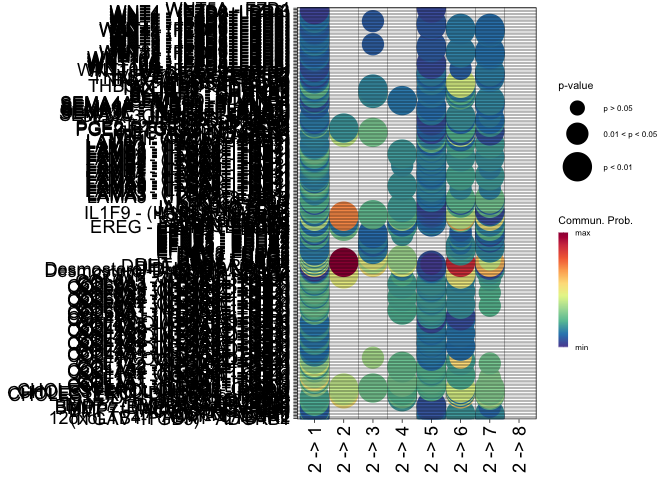
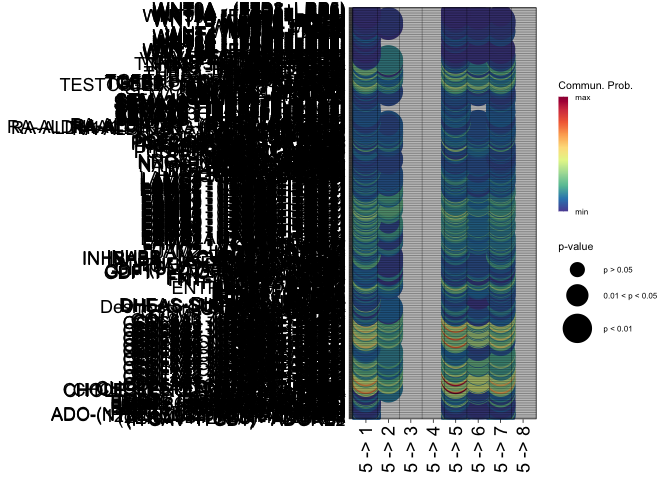
debug

diff --git a/CellChat_Analysis.md b/CellChat_Analysis.md
@@ -71,27 +71,27 @@ ak1 <- RunUMAP(ak1, reduction = "pca", dims = 1:30)
     ## To use Python UMAP via reticulate, set umap.method to 'umap-learn' and metric to 'correlation'
     ## This message will be shown once per session
 
-    ## 09:03:01 UMAP embedding parameters a = 0.9922 b = 1.112
+    ## 16:07:56 UMAP embedding parameters a = 0.9922 b = 1.112
 
-    ## 09:03:01 Read 1419 rows and found 30 numeric columns
+    ## 16:07:56 Read 1419 rows and found 30 numeric columns
 
-    ## 09:03:01 Using Annoy for neighbor search, n_neighbors = 30
+    ## 16:07:56 Using Annoy for neighbor search, n_neighbors = 30
 
-    ## 09:03:01 Building Annoy index with metric = cosine, n_trees = 50
+    ## 16:07:56 Building Annoy index with metric = cosine, n_trees = 50
 
     ## 0%   10   20   30   40   50   60   70   80   90   100%
 
     ## [----|----|----|----|----|----|----|----|----|----|
 
     ## **************************************************|
-    ## 09:03:02 Writing NN index file to temp file /var/folders/nn/sjw17z350nbdmc7_r811zv4m0000gn/T//RtmpkqRb7F/fileed9a1038f0bb
-    ## 09:03:02 Searching Annoy index using 1 thread, search_k = 3000
-    ## 09:03:02 Annoy recall = 100%
-    ## 09:03:02 Commencing smooth kNN distance calibration using 1 thread with target n_neighbors = 30
-    ## 09:03:02 8 smooth knn distance failures
-    ## 09:03:03 Initializing from normalized Laplacian + noise (using RSpectra)
-    ## 09:03:03 Commencing optimization for 500 epochs, with 58354 positive edges
-    ## 09:03:06 Optimization finished
+    ## 16:07:56 Writing NN index file to temp file /var/folders/nn/sjw17z350nbdmc7_r811zv4m0000gn/T//Rtmp1eyeo6/filefc4013eb1d48
+    ## 16:07:56 Searching Annoy index using 1 thread, search_k = 3000
+    ## 16:07:56 Annoy recall = 100%
+    ## 16:07:56 Commencing smooth kNN distance calibration using 1 thread with target n_neighbors = 30
+    ## 16:07:56 8 smooth knn distance failures
+    ## 16:07:57 Initializing from normalized Laplacian + noise (using RSpectra)
+    ## 16:07:57 Commencing optimization for 500 epochs, with 58354 positive edges
+    ## 16:08:00 Optimization finished
 
 ``` r
 color.use <- scPalette(nlevels(ak1)); names(color.use) <- levels(ak1)
@@ -196,7 +196,7 @@ execution.time = Sys.time() - ptm
 print(as.numeric(execution.time, units = "secs"))
 ```
 
-    ## [1] 47.86924
+    ## [1] 47.69012
 
 ## Part II: Inference of cell-cell communication network
 
@@ -209,9 +209,9 @@ cellchat1 <- computeCommunProb(cellchat1, type = "truncatedMean", trim = 0.1,
 ```
 
     ## truncatedMean is used for calculating the average gene expression per cell group. 
-    ## [1] ">>> Run CellChat on spatial transcriptomics data using distances as constraints of the computed communication probability <<< [2025-01-25 09:03:34.600816]"
+    ## [1] ">>> Run CellChat on spatial transcriptomics data using distances as constraints of the computed communication probability <<< [2025-01-25 16:08:28.657664]"
     ## The input L-R pairs have both secreted signaling and contact-dependent signaling. Run CellChat in a contact-dependent manner for `Cell-Cell Contact` signaling, and in a diffusion manner based on the `interaction.range` for other L-R pairs. 
-    ## [1] ">>> CellChat inference is done. Parameter values are stored in `object@options$parameter` <<< [2025-01-25 09:03:50.011665]"
+    ## [1] ">>> CellChat inference is done. Parameter values are stored in `object@options$parameter` <<< [2025-01-25 16:08:48.88682]"
 
 ### Filter out the cell-cell communication if there are only few number of cells in certain cell groups
 
@@ -240,7 +240,7 @@ execution.time = Sys.time() - ptm
 print(as.numeric(execution.time, units = "secs"))
 ```
 
-    ## [1] 18.16438
+    ## [1] 23.02346
 
 ``` r
 ptm = Sys.time()
@@ -271,8 +271,8 @@ netVisual_heatmap(cellchat1, measure = "weight", color.heatmap = "Blues")
 
 ``` r
 # sub-dataset
-df.net_c16 <- subsetCommunication(cellchat1, sources.use = "2", targets.use = "1") ##gives the inferred cell-cell communications sending from cell groups 2 (dermis) to cell groups 1 (dysplastic).
-df.net_c61 <- subsetCommunication(cellchat1, sources.use = "1", targets.use = "2") ##gives the inferred cell-cell communications sending from cell groups 1 (dysplastic) to cell groups 2 (dermis).
+df.net_c12 <- subsetCommunication(cellchat1, sources.use = "2", targets.use = "1") ##gives the inferred cell-cell communications sending from cell groups 2 (dermis) to cell groups 1 (dysplastic).
+df.net_c21 <- subsetCommunication(cellchat1, sources.use = "1", targets.use = "2") ##gives the inferred cell-cell communications sending from cell groups 1 (dysplastic) to cell groups 2 (dermis).
 ```
 
 ## Visualize cell-cell communication mediated by multiple ligand-receptors or signaling pathways
@@ -345,26 +345,26 @@ ak2 <- FindClusters(ak2, verbose = FALSE)
 ak2 <- RunUMAP(ak2, reduction = "pca", dims = 1:30)
 ```
 
-    ## 09:04:48 UMAP embedding parameters a = 0.9922 b = 1.112
+    ## 16:10:18 UMAP embedding parameters a = 0.9922 b = 1.112
 
-    ## 09:04:48 Read 1505 rows and found 30 numeric columns
+    ## 16:10:18 Read 1505 rows and found 30 numeric columns
 
-    ## 09:04:48 Using Annoy for neighbor search, n_neighbors = 30
+    ## 16:10:18 Using Annoy for neighbor search, n_neighbors = 30
 
-    ## 09:04:48 Building Annoy index with metric = cosine, n_trees = 50
+    ## 16:10:18 Building Annoy index with metric = cosine, n_trees = 50
 
     ## 0%   10   20   30   40   50   60   70   80   90   100%
 
     ## [----|----|----|----|----|----|----|----|----|----|
 
     ## **************************************************|
-    ## 09:04:48 Writing NN index file to temp file /var/folders/nn/sjw17z350nbdmc7_r811zv4m0000gn/T//RtmpkqRb7F/fileed9a5231df97
-    ## 09:04:48 Searching Annoy index using 4 threads, search_k = 3000
-    ## 09:04:48 Annoy recall = 100%
-    ## 09:04:49 Commencing smooth kNN distance calibration using 4 threads with target n_neighbors = 30
-    ## 09:04:50 Initializing from normalized Laplacian + noise (using RSpectra)
-    ## 09:04:50 Commencing optimization for 500 epochs, with 60394 positive edges
-    ## 09:04:52 Optimization finished
+    ## 16:10:18 Writing NN index file to temp file /var/folders/nn/sjw17z350nbdmc7_r811zv4m0000gn/T//Rtmp1eyeo6/filefc40c911ebd
+    ## 16:10:18 Searching Annoy index using 4 threads, search_k = 3000
+    ## 16:10:19 Annoy recall = 100%
+    ## 16:10:19 Commencing smooth kNN distance calibration using 4 threads with target n_neighbors = 30
+    ## 16:10:21 Initializing from normalized Laplacian + noise (using RSpectra)
+    ## 16:10:21 Commencing optimization for 500 epochs, with 60394 positive edges
+    ## 16:10:25 Optimization finished
 
 ``` r
 color.use <- scPalette(nlevels(ak2)); names(color.use) <- levels(ak2)
@@ -458,7 +458,7 @@ execution.time = Sys.time() - ptm
 print(as.numeric(execution.time, units = "secs"))
 ```
 
-    ## [1] 91.21671
+    ## [1] 138.9459
 
 ## Part II: Inference of cell-cell communication network
 
@@ -471,9 +471,9 @@ cellchat2 <- computeCommunProb(cellchat2, type = "truncatedMean", trim = 0.1,
 ```
 
     ## truncatedMean is used for calculating the average gene expression per cell group. 
-    ## [1] ">>> Run CellChat on spatial transcriptomics data using distances as constraints of the computed communication probability <<< [2025-01-25 09:05:25.31657]"
+    ## [1] ">>> Run CellChat on spatial transcriptomics data using distances as constraints of the computed communication probability <<< [2025-01-25 16:11:14.354938]"
     ## The input L-R pairs have both secreted signaling and contact-dependent signaling. Run CellChat in a contact-dependent manner for `Cell-Cell Contact` signaling, and in a diffusion manner based on the `interaction.range` for other L-R pairs. 
-    ## [1] ">>> CellChat inference is done. Parameter values are stored in `object@options$parameter` <<< [2025-01-25 10:14:59.299842]"
+    ## [1] ">>> CellChat inference is done. Parameter values are stored in `object@options$parameter` <<< [2025-01-25 18:09:02.189342]"
 
 ### Filter out the cell-cell communication if there are only few number of cells in certain cell groups
 
@@ -502,7 +502,7 @@ execution.time = Sys.time() - ptm
 print(as.numeric(execution.time, units = "secs"))
 ```
 
-    ## [1] 4178.282
+    ## [1] 7074.494
 
 ``` r
 ptm = Sys.time()
@@ -533,8 +533,8 @@ netVisual_heatmap(cellchat2, measure = "weight", color.heatmap = "Blues")
 
 ``` r
 # sub-dataset
-df.net_c21 <- subsetCommunication(cellchat2, sources.use = "2", targets.use = "1") ##gives the inferred cell-cell communications sending from cell groups 2 (dermis) to cell groups 1 (dysplastic).
-df.net_c12 <- subsetCommunication(cellchat2, sources.use = "1", targets.use = "2") ##gives the inferred cell-cell communications sending from cell groups 1 (dysplastic) to cell groups 2 (dermis).
+df.net_c51 <- subsetCommunication(cellchat2, sources.use = "5", targets.use = "1") ##gives the inferred cell-cell communications sending from cell groups 5 (dermis) to cell groups 1 (dysplastic).
+df.net_c15 <- subsetCommunication(cellchat2, sources.use = "1", targets.use = "5") ##gives the inferred cell-cell communications sending from cell groups 1 (dysplastic) to cell groups 5 (dermis).
 ```
 
 ## Visualize cell-cell communication mediated by multiple ligand-receptors or signaling pathways
@@ -547,7 +547,7 @@ df.net_c12 <- subsetCommunication(cellchat2, sources.use = "1", targets.use = "2
 
 ``` r
 par(mfrow=c(1,1))
-netVisual_bubble(cellchat2, sources.use = "2", targets.use = c("1":"8"), remove.isolate = FALSE, dot.size.min = 5, dot.size.max = 10, font.size = 17, grid.on = TRUE, color.grid = "black")
+netVisual_bubble(cellchat2, sources.use = "5", targets.use = c("1":"8"), remove.isolate = FALSE, dot.size.min = 5, dot.size.max = 10, font.size = 17, grid.on = TRUE, color.grid = "black")
 ```
 
     ## Comparing communications on a single object
@@ -604,26 +604,26 @@ ak4_d <- FindClusters(ak4_d, verbose = FALSE)
 ak4_d <- RunUMAP(ak4_d, reduction = "pca", dims = 1:30)
 ```
 
-    ## 10:15:48 UMAP embedding parameters a = 0.9922 b = 1.112
+    ## 18:09:52 UMAP embedding parameters a = 0.9922 b = 1.112
 
-    ## 10:15:48 Read 921 rows and found 30 numeric columns
+    ## 18:09:52 Read 921 rows and found 30 numeric columns
 
-    ## 10:15:48 Using Annoy for neighbor search, n_neighbors = 30
+    ## 18:09:52 Using Annoy for neighbor search, n_neighbors = 30
 
-    ## 10:15:48 Building Annoy index with metric = cosine, n_trees = 50
+    ## 18:09:52 Building Annoy index with metric = cosine, n_trees = 50
 
     ## 0%   10   20   30   40   50   60   70   80   90   100%
 
     ## [----|----|----|----|----|----|----|----|----|----|
 
     ## **************************************************|
-    ## 10:15:48 Writing NN index file to temp file /var/folders/nn/sjw17z350nbdmc7_r811zv4m0000gn/T//RtmpkqRb7F/fileed9a39015460
-    ## 10:15:48 Searching Annoy index using 4 threads, search_k = 3000
-    ## 10:15:48 Annoy recall = 100%
-    ## 10:15:48 Commencing smooth kNN distance calibration using 4 threads with target n_neighbors = 30
-    ## 10:15:49 Initializing from normalized Laplacian + noise (using RSpectra)
-    ## 10:15:49 Commencing optimization for 500 epochs, with 34326 positive edges
-    ## 10:15:51 Optimization finished
+    ## 18:09:52 Writing NN index file to temp file /var/folders/nn/sjw17z350nbdmc7_r811zv4m0000gn/T//Rtmp1eyeo6/filefc4050cd95fb
+    ## 18:09:52 Searching Annoy index using 4 threads, search_k = 3000
+    ## 18:09:52 Annoy recall = 100%
+    ## 18:09:52 Commencing smooth kNN distance calibration using 4 threads with target n_neighbors = 30
+    ## 18:09:53 Initializing from normalized Laplacian + noise (using RSpectra)
+    ## 18:09:53 Commencing optimization for 500 epochs, with 34326 positive edges
+    ## 18:09:55 Optimization finished
 
 ``` r
 custom_colors <- c("#E41A1C", "#377EB8", "#4DAF4A", "#984EA3", "#FF7F00", "#BC9DCC", "#A65628", "#66C2A5", "#999999"); names(custom_colors) <- levels(ak4_d)
@@ -723,7 +723,7 @@ execution.time = Sys.time() - ptm
 print(as.numeric(execution.time, units = "secs"))
 ```
 
-    ## [1] 79.6165
+    ## [1] 79.64143
 
 ## Part II: Inference of cell-cell communication network
 
@@ -736,9 +736,9 @@ cellchat4d <- computeCommunProb(cellchat4d, type = "truncatedMean", trim = 0.1,
 ```
 
     ## truncatedMean is used for calculating the average gene expression per cell group. 
-    ## [1] ">>> Run CellChat on spatial transcriptomics data using distances as constraints of the computed communication probability <<< [2025-01-25 10:16:22.751505]"
+    ## [1] ">>> Run CellChat on spatial transcriptomics data using distances as constraints of the computed communication probability <<< [2025-01-25 18:10:25.641705]"
     ## The input L-R pairs have both secreted signaling and contact-dependent signaling. Run CellChat in a contact-dependent manner for `Cell-Cell Contact` signaling, and in a diffusion manner based on the `interaction.range` for other L-R pairs. 
-    ## [1] ">>> CellChat inference is done. Parameter values are stored in `object@options$parameter` <<< [2025-01-25 14:26:47.185775]"
+    ## [1] ">>> CellChat inference is done. Parameter values are stored in `object@options$parameter` <<< [2025-01-25 19:45:26.720944]"
 
 ### Filter out the cell-cell communication if there are only few number of cells in certain cell groups
 
@@ -767,7 +767,7 @@ execution.time = Sys.time() - ptm
 print(as.numeric(execution.time, units = "secs"))
 ```
 
-    ## [1] 15028.35
+    ## [1] 5704.99
 
 ``` r
 ptm = Sys.time()
